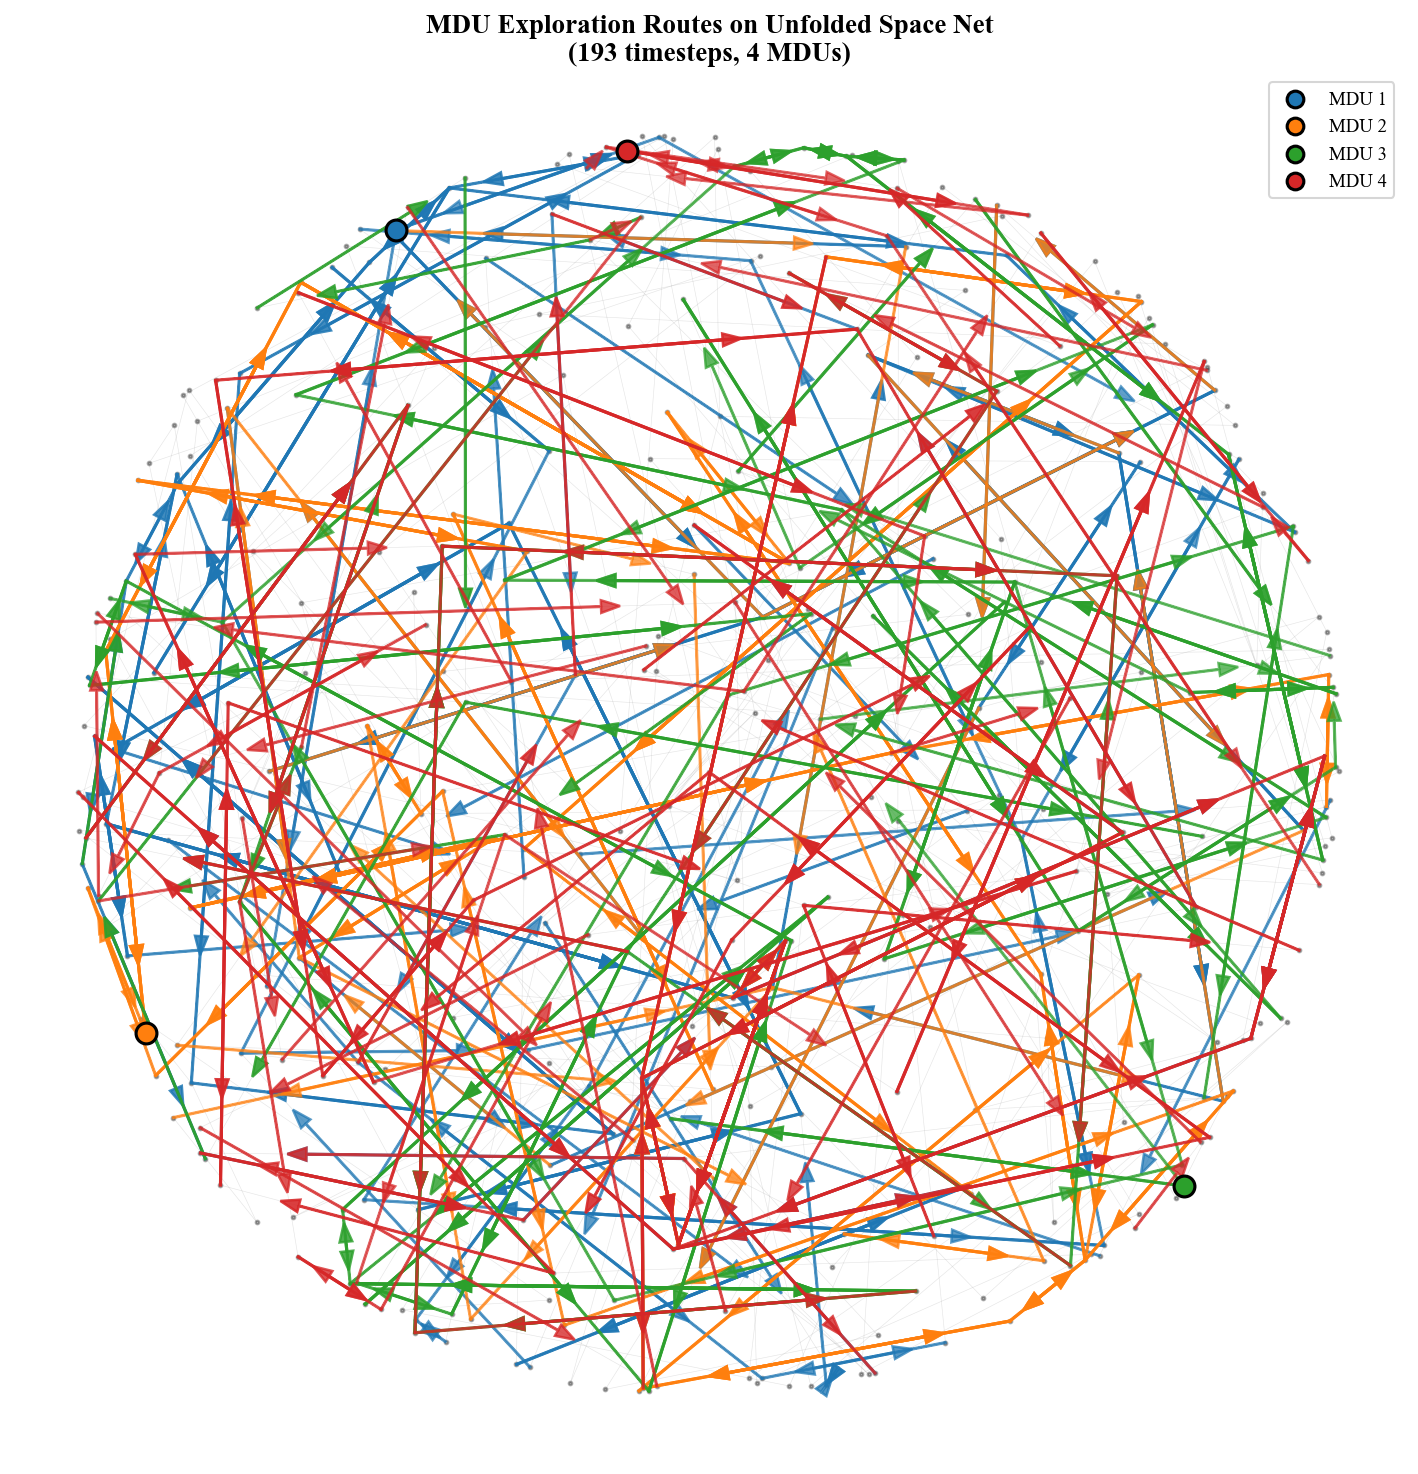
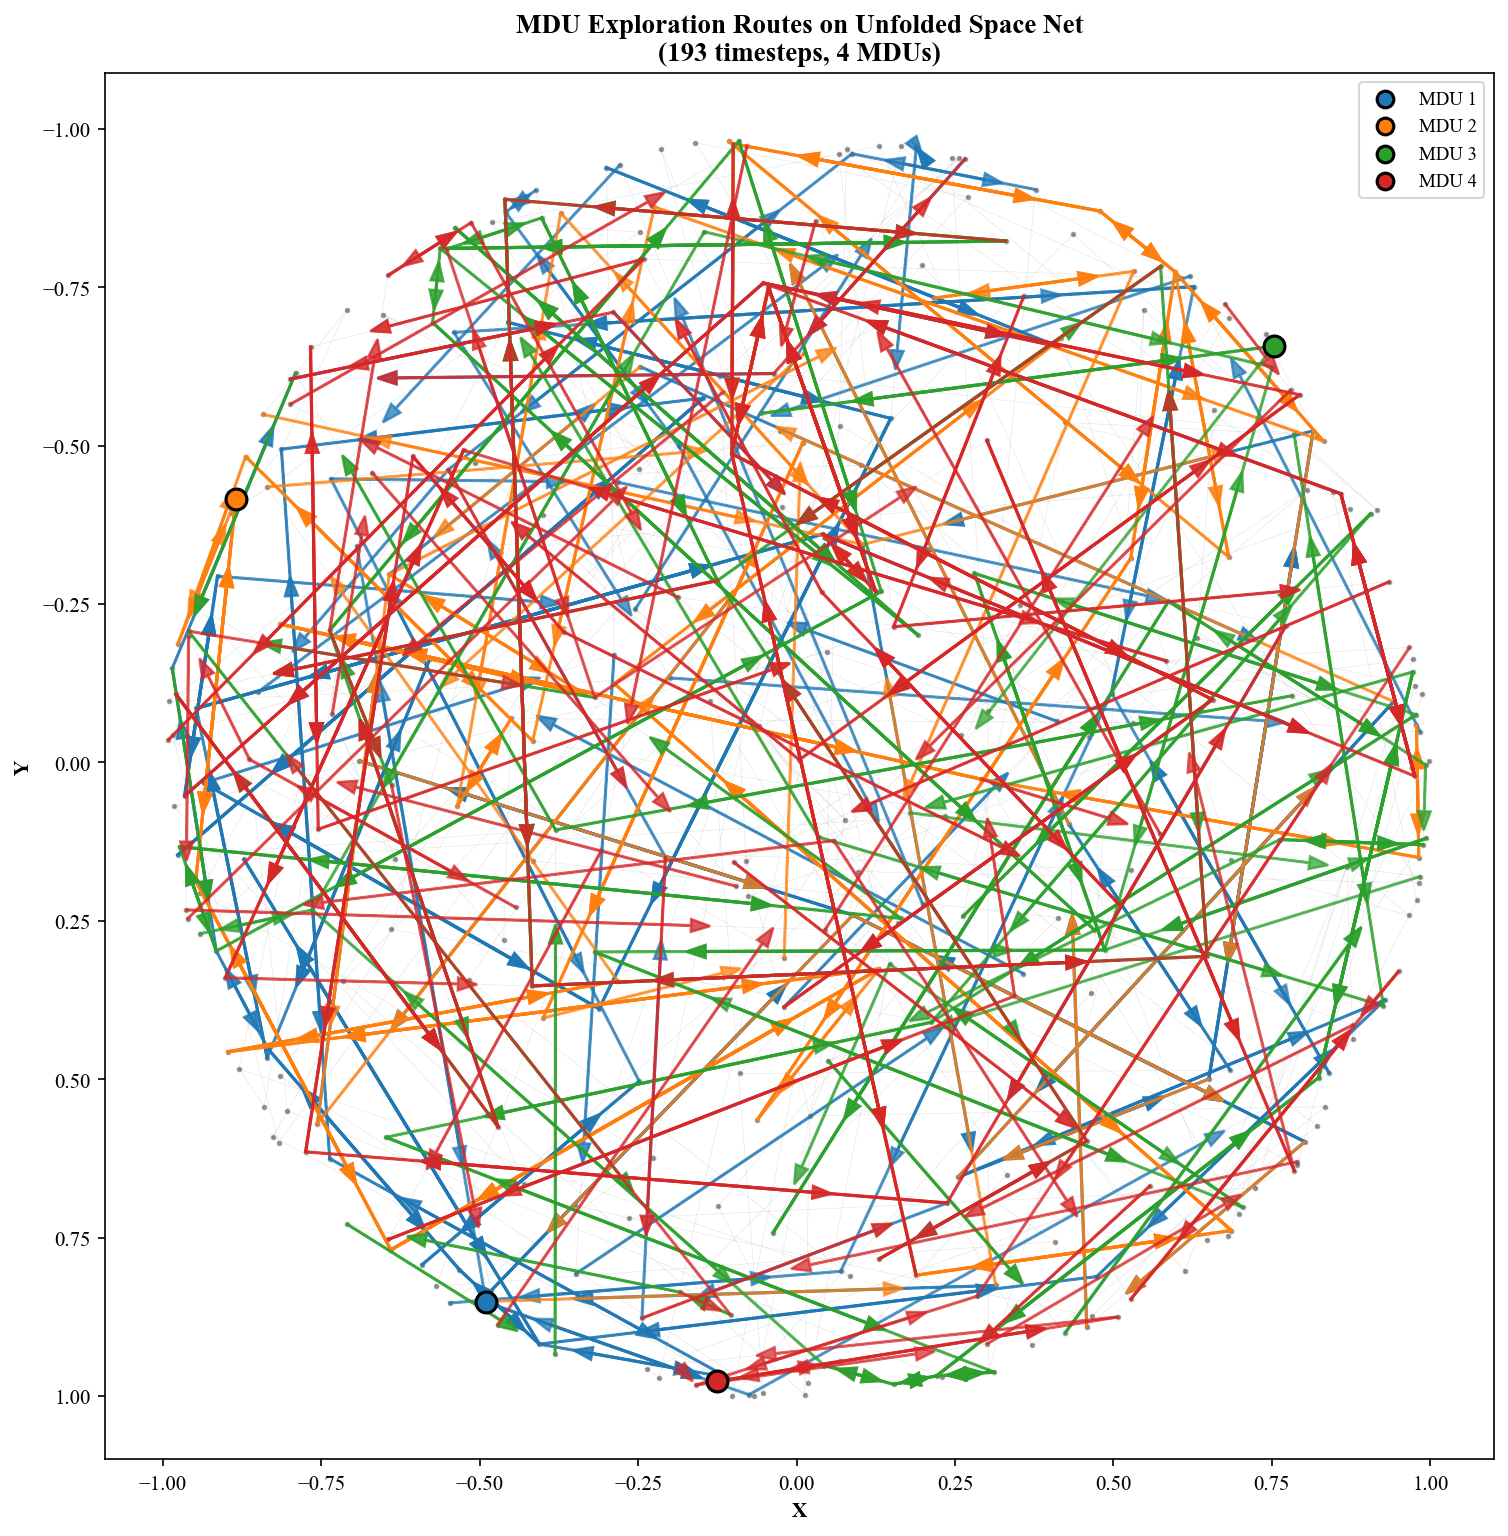
Restore original BFS topology layout (76x15); keep spring as alternative

diff --git a/analysis/plot_topology.py b/analysis/plot_topology.py
@@ -1,14 +1,14 @@
 #!/usr/bin/env python
 """
-Unfolded 2D topology maps with MDU exploration routes.
+Unfolded 2D topology map with MDU exploration routes.
 
 Two modes:
-  --layout spring    Spring-force unfolding (connectivity-preserving)
-  --layout grid      Rectangular index-based grid from FNS topology matrix
+  --layout bfs     BFS cardinal-direction unfolding (best visual result)
+  --layout spring  Spring-force unfolding (connectivity-preserving)
 
 Usage:
     python analysis/plot_topology.py --tag FINAL_v15
-    python analysis/plot_topology.py --tag FINAL_v15 --layout grid
+    python analysis/plot_topology.py --tag FINAL_v15 --layout bfs
 """
 
 import sys, os, argparse
@@ -21,132 +21,125 @@ from collections import deque
 sys.path.insert(0, os.path.join(os.path.dirname(__file__), ".."))
 from src.run_manager import find_run
 
-# ── Font setup ─────────────────────────────────────────────
+# ── Font: bold Times New Roman labels/titles, regular tick numbers ──
 plt.rcParams["font.family"] = "serif"
 plt.rcParams["font.serif"] = ["Times New Roman"]
 plt.rcParams["mathtext.fontset"] = "stix"
 plt.rcParams["axes.labelweight"] = "bold"
 plt.rcParams["axes.titleweight"] = "bold"
-# Tick labels: regular weight (not bold)
 plt.rcParams["font.weight"] = "normal"
 
 COLORS_MDU = plt.cm.tab10(np.linspace(0, 1, 10))
 
 
-def build_grid_layout(fns_path):
-    """Use FNS topology matrix to assign (row, col) to each node.
+def build_layout_bfs(net_edges, N):
+    """BFS from a degree-2 corner node using physical adjacency.
 
-    Topo columns: [type, left, right, down, up, ...]
+    Places nodes on a 2D grid by trying cardinal directions
+    for each unvisited neighbor. This was the original layout
+    that produced the cleanest visual result.
     """
-    with open(fns_path) as f:
-        h = f.readline().split()
-        NP = int(h[0]); NE = int(h[1]); cT = int(h[3])
-        for _ in range(NE): f.readline()
-        topo = np.array([list(map(int, f.readline().split())) for _ in range(NP)])
+    adj = [[] for _ in range(N)]
+    for u, v in net_edges:
+        uu, vv = int(u), int(v)
+        adj[uu].append(vv); adj[vv].append(uu)
 
-    grid = {}; q = deque([0]); grid[0] = (0, 0)
-    dirs = [(1, 0, -1), (2, 0, 1), (3, 1, 0), (4, -1, 0)]  # (topo_col, dr, dc)
-    while q:
-        u = q.popleft(); ru, cu = grid[u]
-        for tc, dr, dc in dirs:
-            if tc < topo.shape[1]:
-                v = topo[u, tc]
-                if v >= 0 and v < NP and v not in grid and v != u:
-                    grid[v] = (ru + dr, cu + dc); q.append(v)
-    min_r = min(r for r, c in grid.values()); min_c = min(c for r, c in grid.values())
-    grid = {k: (r - min_r, c - min_c) for k, (r, c) in grid.items()}
-    rows = max(r for r, c in grid.values()) + 1
-    cols = max(c for r, c in grid.values()) + 1
+    deg2 = [i for i in range(N) if len(adj[i]) == 2]
+    start = deg2[0] if deg2 else 0
 
-    # Handle nodes sharing a cell: offset within cell
-    from collections import Counter
-    cell_counts = Counter(grid.values())
-    offsets = {}
-    cell_idx = {}
-    for node, cell in grid.items():
-        idx = cell_idx.get(cell, 0)
-        cell_idx[cell] = idx + 1
-        n_in_cell = cell_counts[cell]
-        if n_in_cell > 1:
-            # Spread nodes evenly within cell
-            ox = (idx % 3 - 1) * 0.15
-            oy = ((idx // 3) % 3 - 1) * 0.15
-        else:
-            ox, oy = 0.0, 0.0
-        offsets[node] = (ox, oy)
+    grid_pos = {}
+    visited = set()
+    queue = deque([start])
+    grid_pos[start] = (0, 0)
+    visited.add(start)
 
-    return grid, offsets, rows, cols
+    while queue:
+        u = queue.popleft()
+        ru, cu = grid_pos[u]
+        for v in adj[u]:
+            if v not in visited:
+                occupied = {grid_pos[w] for w in visited if w in grid_pos}
+                placed = False
+                for cand in [(ru - 1, cu), (ru + 1, cu), (ru, cu - 1), (ru, cu + 1)]:
+                    if cand not in occupied:
+                        grid_pos[v] = cand; visited.add(v); queue.append(v)
+                        placed = True; break
+                if not placed:
+                    r = ru + 1
+                    while (r, cu) in occupied: r += 1
+                    grid_pos[v] = (r, cu); visited.add(v); queue.append(v)
+
+    # Normalize to (0,0) origin
+    min_r = min(r for r, c in grid_pos.values())
+    min_c = min(c for r, c in grid_pos.values())
+    grid_pos = {k: (r - min_r, c - min_c) for k, (r, c) in grid_pos.items()}
+    rows = max(r for r, c in grid_pos.values()) + 1
+    cols = max(c for r, c in grid_pos.values()) + 1
+    return grid_pos, rows, cols
 
 
-def build_spring_layout(net_edges, N):
+def build_layout_spring(net_edges, N):
     """Spring-force graph unfolding."""
     import networkx as nx
-    G = nx.Graph()
-    G.add_nodes_from(range(N))
+    G = nx.Graph(); G.add_nodes_from(range(N))
     G.add_edges_from([(int(u), int(v)) for u, v in net_edges])
     pos = nx.spring_layout(G, seed=42, iterations=200, k=2.0)
     base = {i: (pos[i][1], pos[i][0]) for i in range(N)}
-    offsets = {i: (0.0, 0.0) for i in range(N)}
-    return base, offsets, None, None
+    return base, None, None
 
 
-def draw_topology(ax, grid_pos, offsets, net_edges, mdu_nodes, N_mdus, T,
-                  rows=None, cols=None, grid_mode=False):
-    """Draw the unfolded topology with MDU routes."""
+def draw_topology(ax, grid_pos, net_edges, mdu_nodes, N_mdus, T,
+                  rows=None, cols=None, show_axes=False):
+    """Draw unfolded topology with MDU routes."""
     # Edges
     for u, v in net_edges:
         uu, vv = int(u), int(v)
         if uu in grid_pos and vv in grid_pos:
-            r1, c1 = grid_pos[uu]; o1r, o1c = offsets[uu]
-            r2, c2 = grid_pos[vv]; o2r, o2c = offsets[vv]
-            ax.plot([c1 + o1c, c2 + o2c], [r1 + o1r, r2 + o2r],
-                    color=(0.6, 0.6, 0.6, 0.25), linewidth=0.3, zorder=1)
+            r1, c1 = grid_pos[uu]; r2, c2 = grid_pos[vv]
+            ax.plot([c1, c2], [r1, r2], color=(0.6, 0.6, 0.6, 0.25),
+                    linewidth=0.3, zorder=1)
 
     # Nodes
-    rs = [grid_pos[i][0] + offsets[i][0] for i in sorted(grid_pos)]
-    cs = [grid_pos[i][1] + offsets[i][1] for i in sorted(grid_pos)]
+    nodes = sorted(grid_pos.keys())
+    rs = [grid_pos[i][0] for i in nodes]; cs = [grid_pos[i][1] for i in nodes]
     ax.scatter(cs, rs, s=3, color=(0.2, 0.2, 0.2, 0.4), zorder=2)
 
-    # MDU trajectories
+    # MDU trajectories (arrows, alpha 0.7→0.9)
     for mdu_idx in range(N_mdus):
         path = mdu_nodes[:, mdu_idx]; color = COLORS_MDU[mdu_idx]
         for t in range(T - 1):
             u, v = int(path[t]), int(path[t + 1])
             if u == v or u not in grid_pos or v not in grid_pos:
                 continue
-            r1, c1 = grid_pos[u]; o1r, o1c = offsets[u]
-            r2, c2 = grid_pos[v]; o2r, o2c = offsets[v]
+            r1, c1 = grid_pos[u]; r2, c2 = grid_pos[v]
             alpha = 0.7 + 0.2 * (t / max(T - 2, 1))
-            dc = (c2 + o2c) - (c1 + o1c); dr = (r2 + o2r) - (r1 + o1r)
-            ax.arrow(c1 + o1c, r1 + o1r, dc * 0.82, dr * 0.82,
+            dc = c2 - c1; dr = r2 - r1
+            ax.arrow(c1, r1, dc * 0.82, dr * 0.82,
                      head_width=0.02, head_length=0.03, fc=color, ec=color,
                      alpha=alpha, linewidth=1.2, length_includes_head=True, zorder=5)
         # Start marker
         sn = int(path[0])
         if sn in grid_pos:
-            sr, sc = grid_pos[sn]; osr, osc = offsets[sn]
-            ax.scatter(sc + osc, sr + osr, s=100, marker="o", facecolor=color,
+            sr, sc = grid_pos[sn]
+            ax.scatter(sc, sr, s=100, marker="o", facecolor=color,
                        edgecolor="black", linewidth=1.5, zorder=10,
                        label=f"MDU {mdu_idx + 1}")
 
     ax.legend(loc="upper right", fontsize=9, markerscale=0.8)
-    cov_start = 0.0  # t=0 coverage rate (not stored easily here, use 0)
     ax.set_title(f"MDU Exploration Routes on Unfolded Space Net\n"
                  f"({T} timesteps, {N_mdus} MDUs)", fontweight="bold", fontsize=13)
 
-    if grid_mode and rows and cols:
-        ax.set_xlabel("Grid column index", fontweight="bold")
-        ax.set_ylabel("Grid row index", fontweight="bold")
-        ax.set_xticks(range(cols))
-        ax.set_yticks(range(rows))
-        ax.tick_params(labelsize=9)
+    if show_axes and rows and cols:
+        ax.set_xlabel("Grid column", fontweight="bold")
+        ax.set_ylabel("Grid row", fontweight="bold")
+        ax.set_xticks(range(cols)); ax.set_yticks(range(rows))
+        ax.tick_params(labelsize=8)
     else:
         ax.set_xlabel("X", fontweight="bold")
         ax.set_ylabel("Y", fontweight="bold")
-        ax.axis("off")
+
     ax.set_aspect("equal")
-    if grid_mode:
-        ax.invert_yaxis()
+    ax.invert_yaxis()
 
 
 def main():
@@ -154,49 +147,44 @@ def main():
     p.add_argument("--tag", type=str, default=None)
     p.add_argument("--run", type=str, default=None)
     p.add_argument("--npz", type=str, default=None)
-    p.add_argument("--layout", choices=["spring", "grid", "both"], default="both")
+    p.add_argument("--layout", choices=["bfs", "spring", "both"], default="both")
     p.add_argument("--output-dir", type=str, default=None)
     p.add_argument("--dpi", type=int, default=150)
     args = p.parse_args()
 
     root = os.path.dirname(os.path.dirname(os.path.abspath(__file__)))
-
     if args.npz:
         npz_path = args.npz
     else:
         run_dir = find_run(os.path.join(root, "results"), tag=args.tag, run_name=args.run)
-        if not run_dir:
-            print("Run not found."); sys.exit(1)
+        if not run_dir: print("Run not found."); sys.exit(1)
         npz_path = os.path.join(run_dir, "trajectories", "trajectory_mappo.npz")
 
     data = np.load(npz_path)
     mdu_nodes = data["mdu_nodes"]; net_edges = data["net_edges"]
-    net_positions = data["net_positions"]
-    T, N_mdus = mdu_nodes.shape
-    N_nodes = len(net_positions)
-    print(f"Loaded: {T} timesteps, {N_mdus} MDUs, {N_nodes} nodes")
+    T, N_mdus = mdu_nodes.shape; N_nodes = len(data["net_positions"])
+    print(f"Loaded: {T} timesteps, {N_mdus} MDUs")
 
     out_dir = args.output_dir or os.path.join(root, "analysis", "outputs")
     os.makedirs(out_dir, exist_ok=True)
     tag = args.tag or os.path.splitext(os.path.basename(npz_path))[0]
 
-    # ── Spring layout ──
-    if args.layout in ("spring", "both"):
-        grid_pos, offsets, _, _ = build_spring_layout(net_edges, N_nodes)
-        fig, ax = plt.subplots(figsize=(16, 12))
-        draw_topology(ax, grid_pos, offsets, net_edges, mdu_nodes, N_mdus, T)
-        out = os.path.join(out_dir, f"topology_spring_{tag}.png")
+    if args.layout in ("bfs", "both"):
+        grid_pos, rows, cols = build_layout_bfs(net_edges, N_nodes)
+        print(f"BFS layout: {rows}x{cols}, {len(grid_pos)} nodes")
+        fig, ax = plt.subplots(figsize=(max(cols / 4, 16), max(rows / 4, 12)))
+        draw_topology(ax, grid_pos, net_edges, mdu_nodes, N_mdus, T,
+                      rows, cols, show_axes=True)
+        out = os.path.join(out_dir, f"topology_bfs_{tag}.png")
         plt.savefig(out, dpi=args.dpi, bbox_inches="tight"); plt.close()
         print(f"Saved: {out}")
 
-    # ── Grid (index-based) layout ──
-    if args.layout in ("grid", "both"):
-        fns_path = os.path.join(root, "FNS_square_fold-50m.txt")
-        grid_pos, offsets, rows, cols = build_grid_layout(fns_path)
-        fig, ax = plt.subplots(figsize=(max(cols * 1.2, 14), max(rows * 1.2, 10)))
-        draw_topology(ax, grid_pos, offsets, net_edges, mdu_nodes, N_mdus, T,
-                      rows=rows, cols=cols, grid_mode=True)
-        out = os.path.join(out_dir, f"topology_grid_{tag}.png")
+    if args.layout in ("spring", "both"):
+        pos, _, _ = build_layout_spring(net_edges, N_nodes)
+        print(f"Spring layout: {len(pos)} nodes")
+        fig, ax = plt.subplots(figsize=(16, 12))
+        draw_topology(ax, pos, net_edges, mdu_nodes, N_mdus, T)
+        out = os.path.join(out_dir, f"topology_spring_{tag}.png")
         plt.savefig(out, dpi=args.dpi, bbox_inches="tight"); plt.close()
         print(f"Saved: {out}")
 
